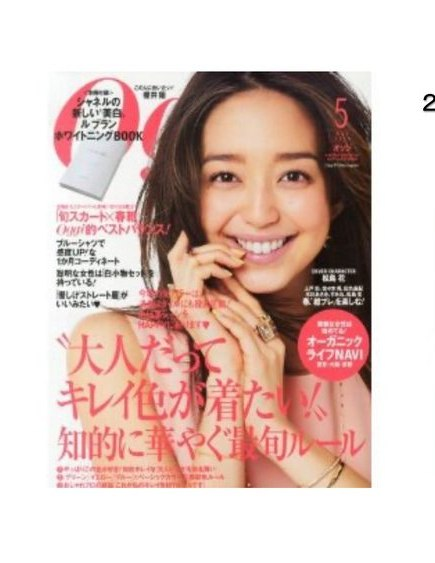
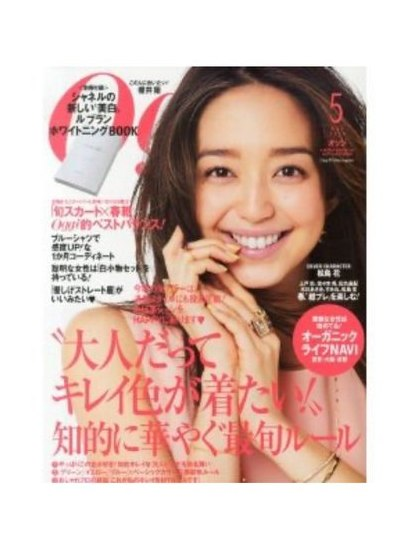
Tighten cover crops on GINGER and Mart to drop the side watches
The previous crops for cover-09.jpg (GINGER) and cover-11.jpg
(Mart) still showed the editorial watch photo next to the
magazine cover because the right boundary was past the spread's
white gap. Sampled the source spread brightness across X to find
where the cover ends and the empty gap begins, then re-cropped:

- cover-09 (GINGER): x 135–395 (was 135–495) -> watch removed
- cover-11 (Mart):   x 170–440 (was 130–555) -> watch removed
- cover-02 (Oggi) and cover-05 (and GIRL + GOSSIPS) kept at the
  current snug crops since they were already correct.

Bumped <img src> cache-buster to ?v=2 on all four cover-*.jpg
references in press.html so browsers fetch the corrected files
instead of the cached watch-included versions.

diff --git a/press.html b/press.html
@@ -447,10 +447,10 @@ html, body{
 
       <div class="poster__as-seen">
         <div class="poster__as-seen-stack">
-          <img class="poster__as-seen-cover" src="press-images/magazines/cover-02.jpg" alt="Oggi 5月号" decoding="sync" loading="eager">
-          <img class="poster__as-seen-cover" src="press-images/magazines/cover-09.jpg" alt="GINGER 12月号" decoding="sync" loading="eager">
-          <img class="poster__as-seen-cover" src="press-images/magazines/cover-11.jpg" alt="Mart 4月号" decoding="sync" loading="eager">
-          <img class="poster__as-seen-cover" src="press-images/magazines/cover-05.jpg" alt="and GIRL / GOSSIPS" decoding="sync" loading="eager">
+          <img class="poster__as-seen-cover" src="press-images/magazines/cover-02.jpg?v=2" alt="Oggi 5月号" decoding="sync" loading="eager">
+          <img class="poster__as-seen-cover" src="press-images/magazines/cover-09.jpg?v=2" alt="GINGER 12月号" decoding="sync" loading="eager">
+          <img class="poster__as-seen-cover" src="press-images/magazines/cover-11.jpg?v=2" alt="Mart 4月号" decoding="sync" loading="eager">
+          <img class="poster__as-seen-cover" src="press-images/magazines/cover-05.jpg?v=2" alt="and GIRL / GOSSIPS" decoding="sync" loading="eager">
           <img class="poster__as-seen-front" src="press-images/magazines/spread_10.jpg?v=2" alt="and GIRL 11月号 - ダイヤピアス掲載" decoding="sync" loading="eager">
         </div>
       </div>
